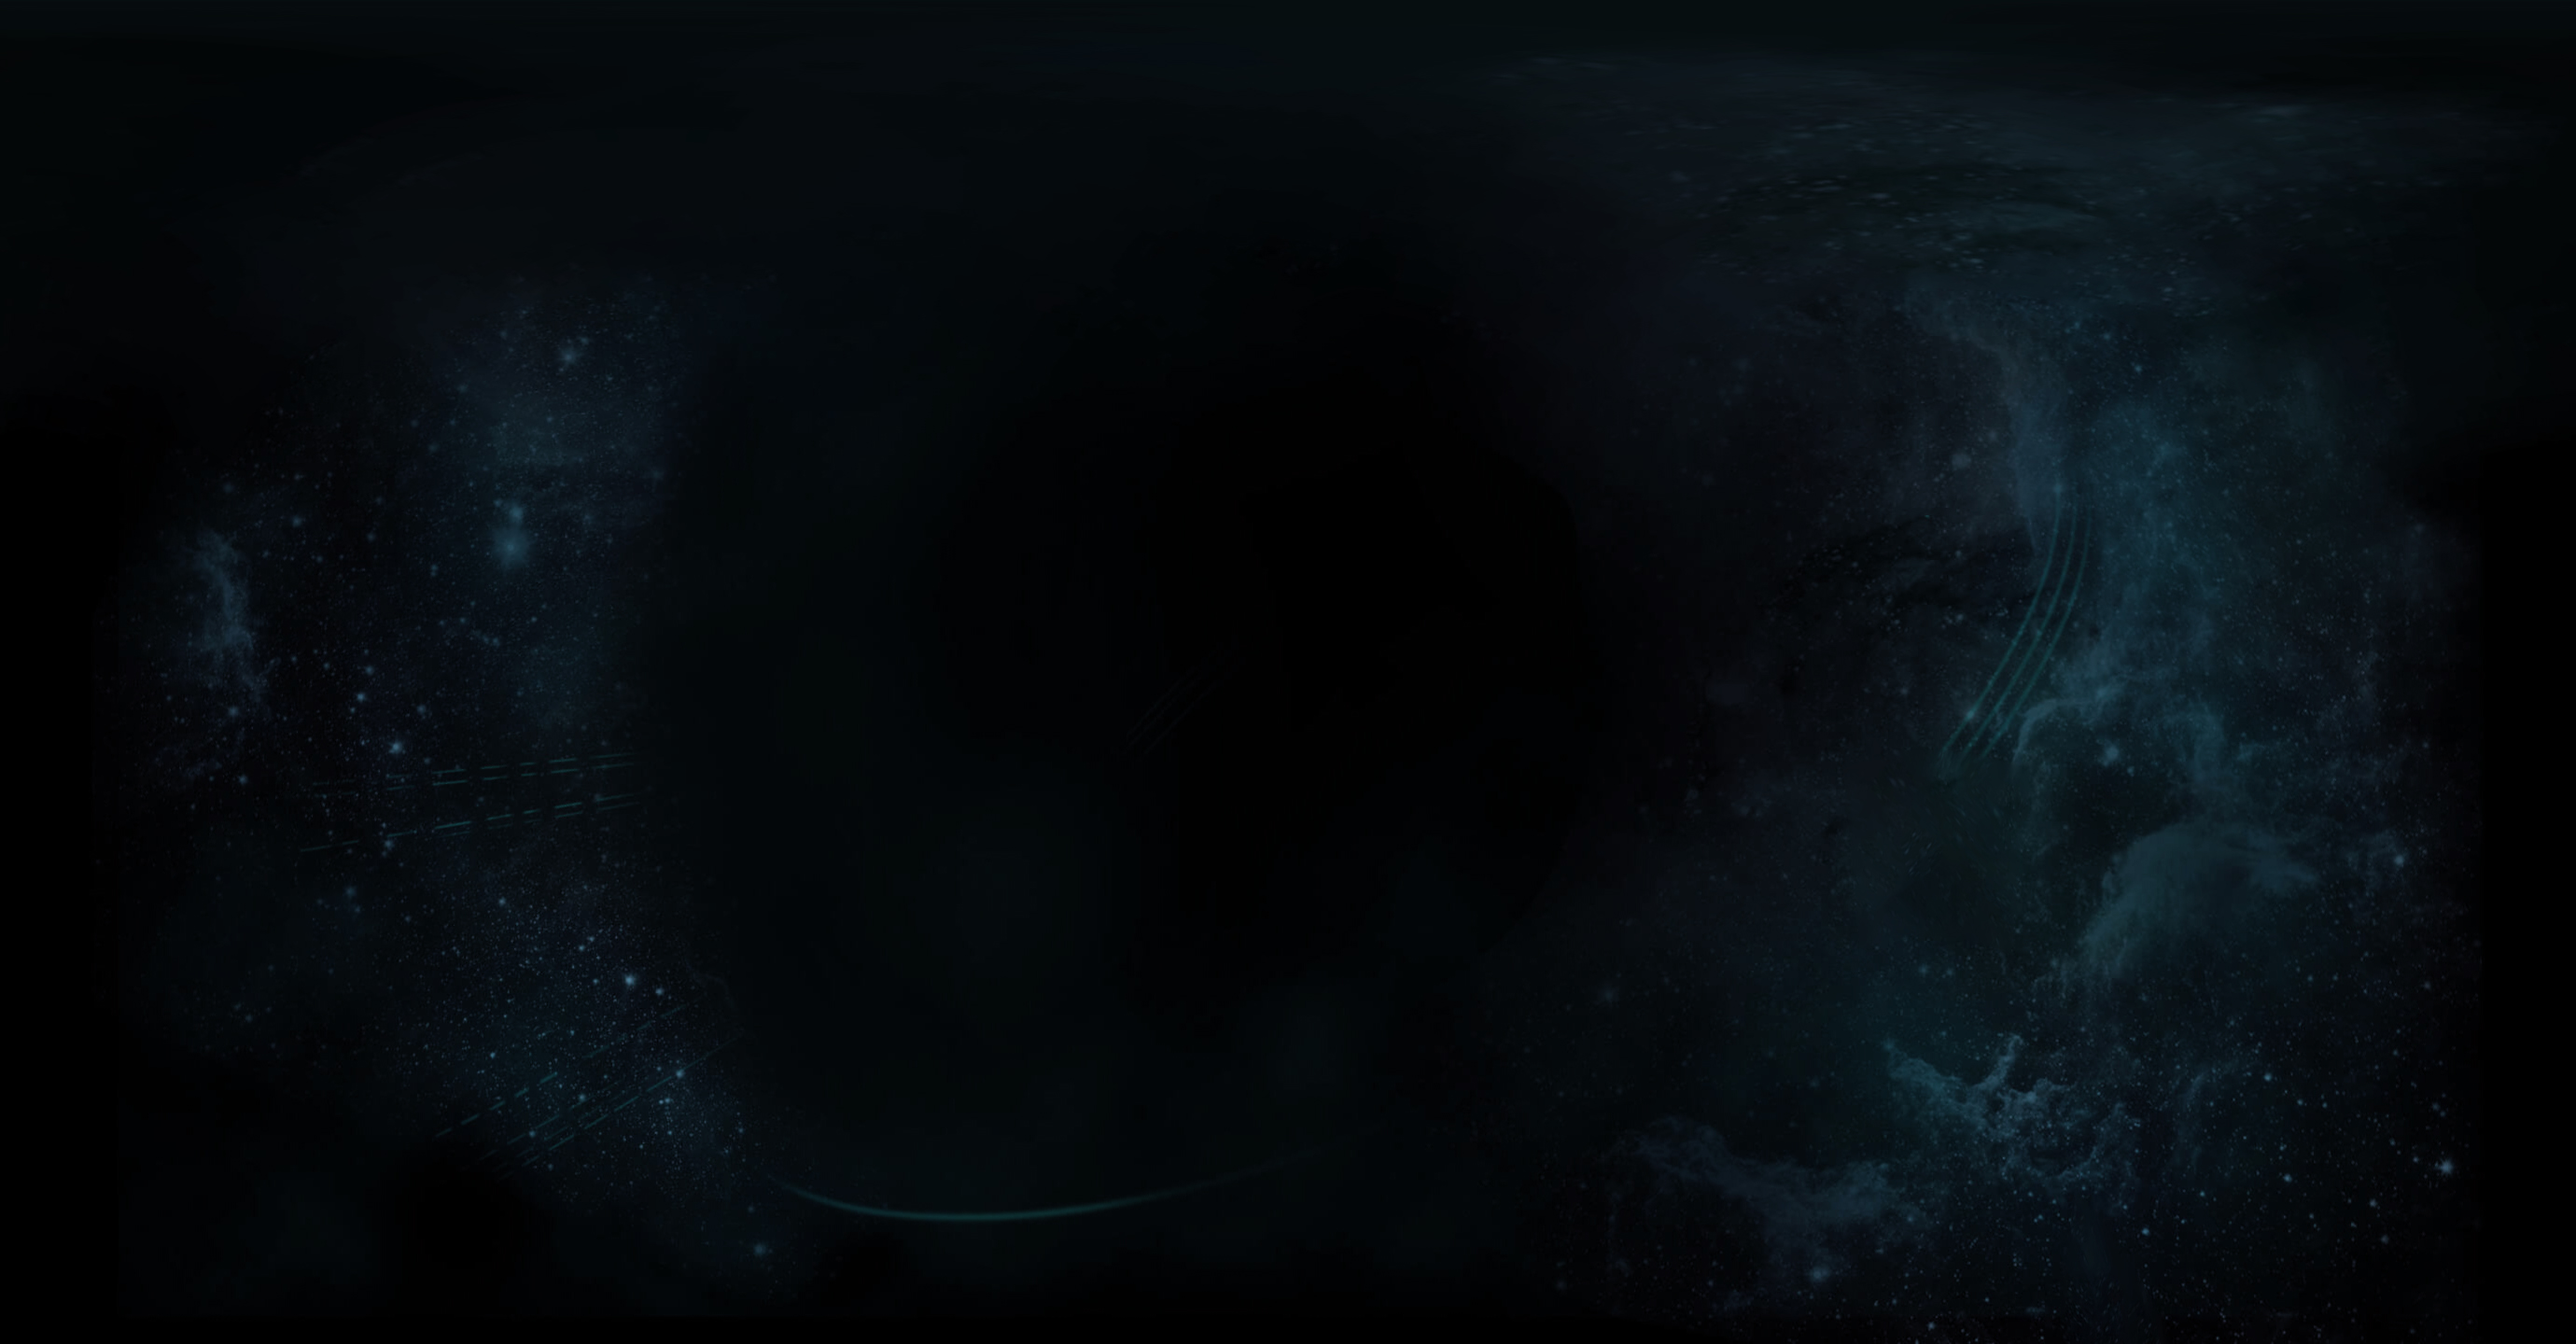
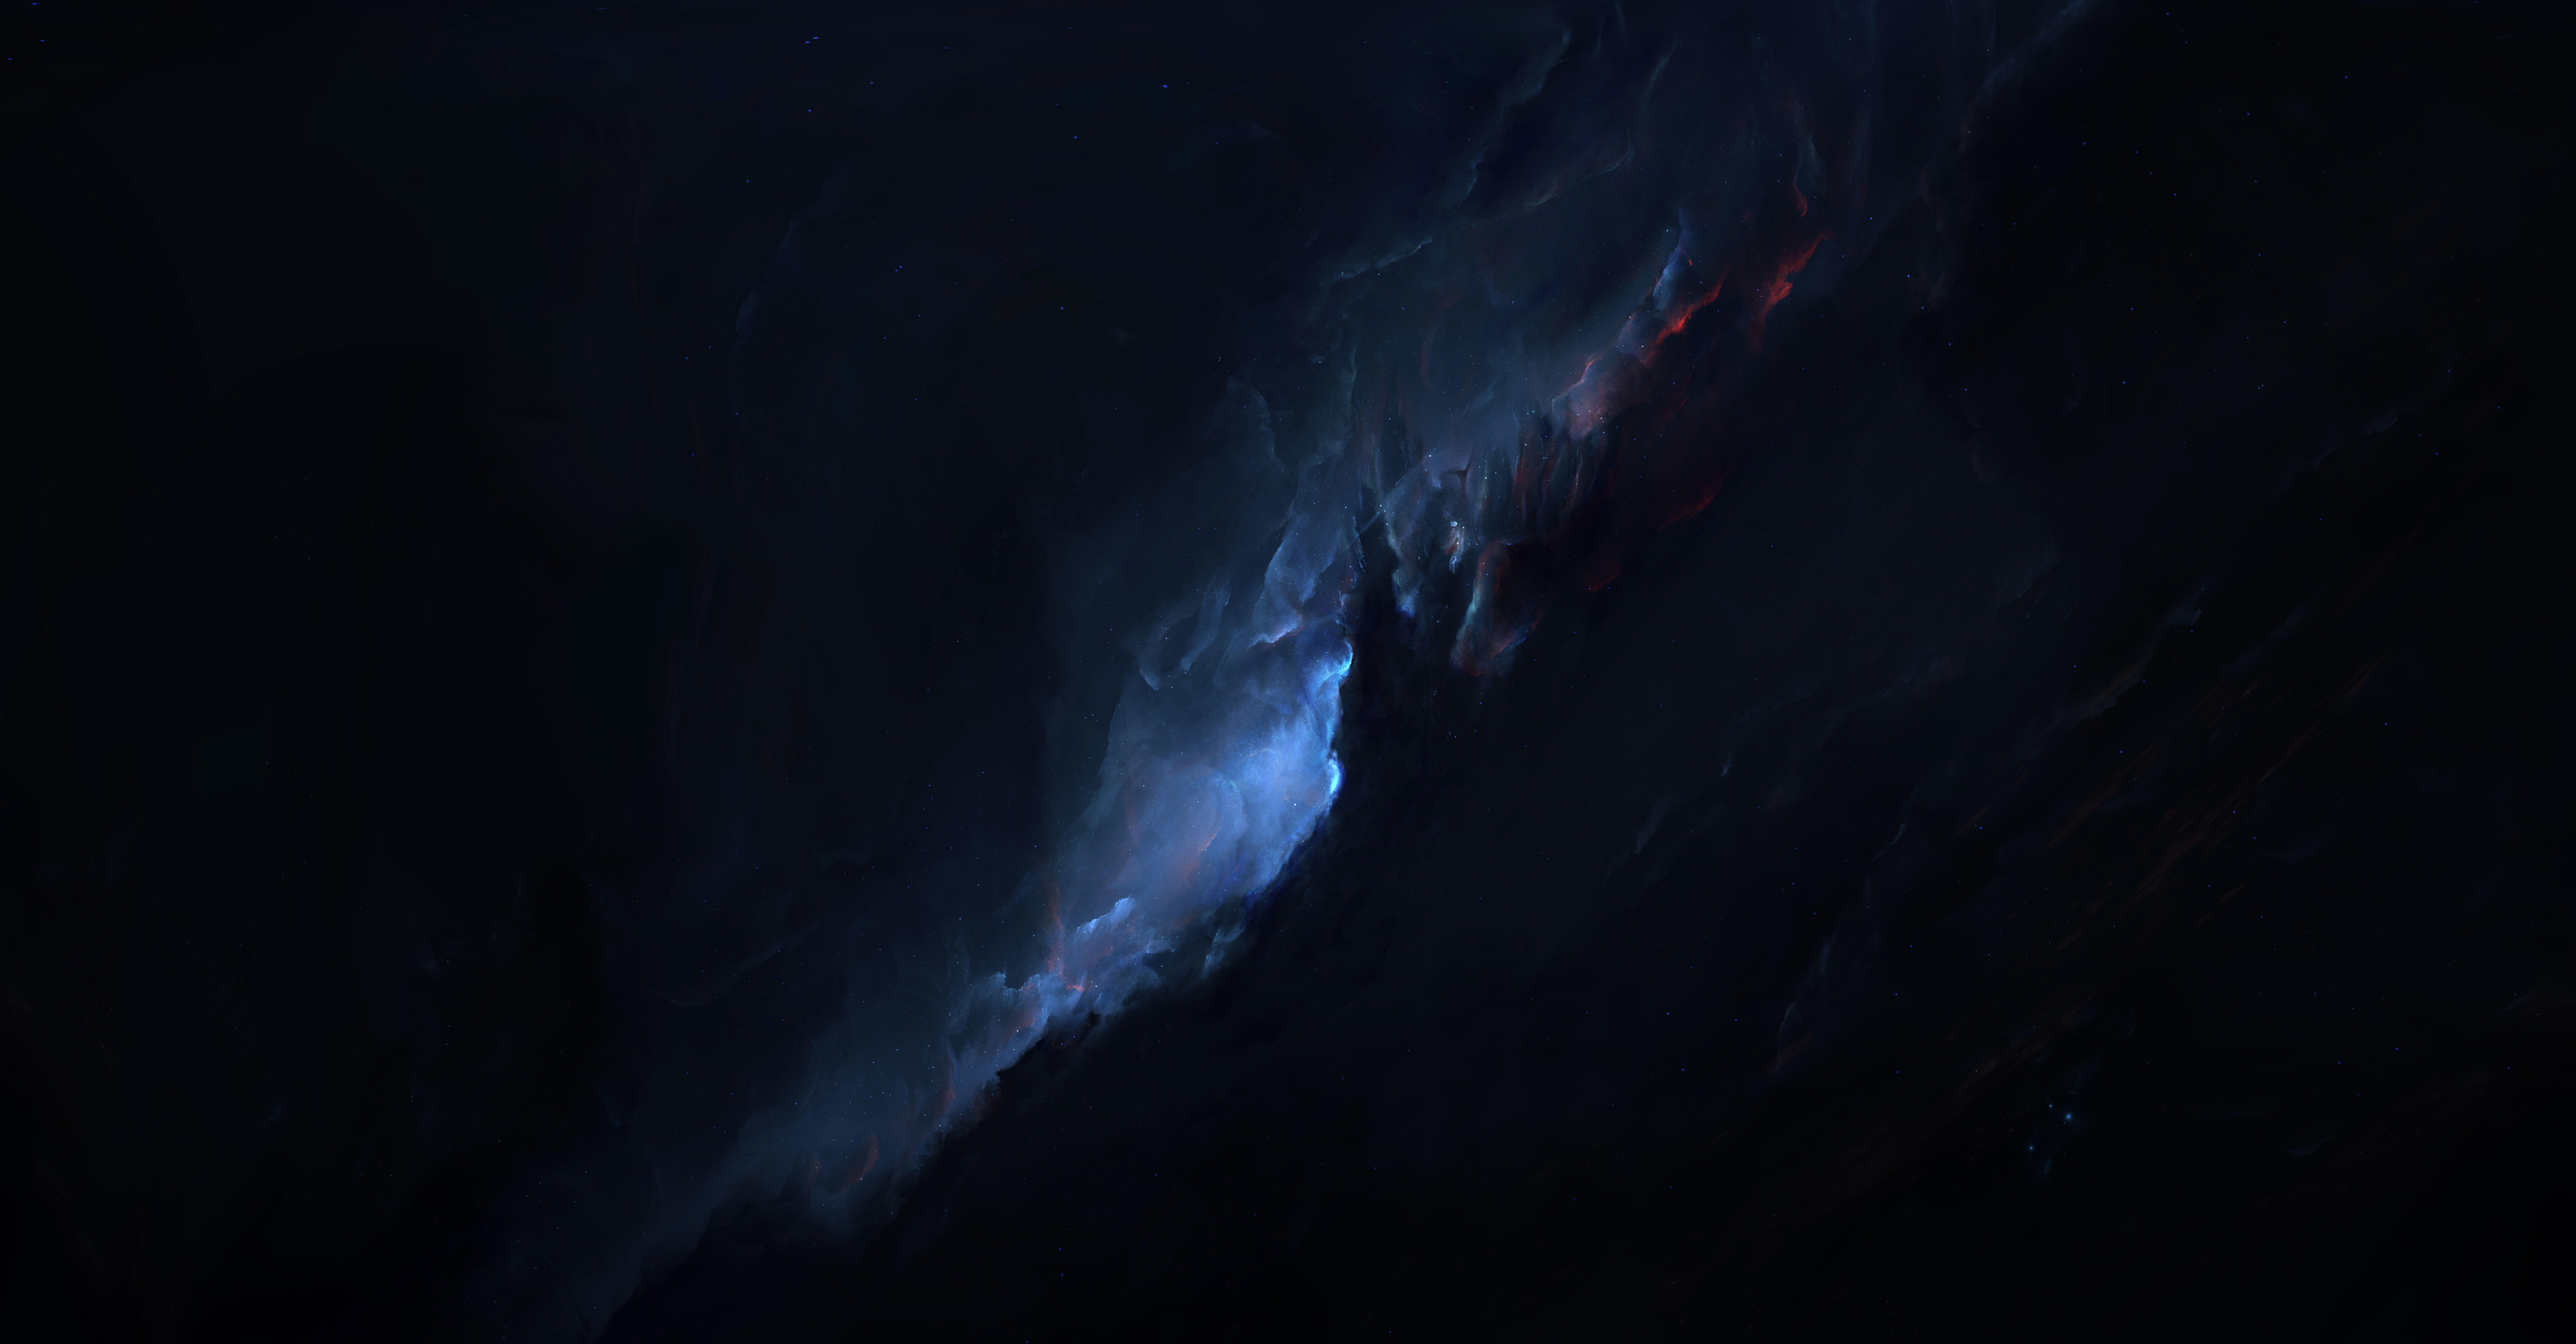
Fix background & damping of controls

diff --git a/src/layouts/Home/DisplacementSphere.js b/src/layouts/Home/DisplacementSphere.js
@@ -184,10 +184,11 @@ export const DisplacementSphere = props => {
     
     const controls = new OrbitControls(camera.current, renderer.current.domElement);
     controls.enableDamping = true;
+    controls.dampingFactor = 0.3;
     controls.enablePan = false;
     controls.minDistance = 3;
     controls.maxDistance = 7;
-    controls.rotateSpeed = 0.7;
+    controls.rotateSpeed = 0.35;
     controls.update();
 
     var geom = new THREE.SphereGeometry(1.95, 500, 500);
@@ -202,7 +203,7 @@ export const DisplacementSphere = props => {
     
     const loader = new THREE.TextureLoader();
     const texture = new TextureLoader().load("/static/earth_1.png");
-    const texture1 = new TextureLoader().load("/static/bg3.jpg");
+    const texture1 = new TextureLoader().load("/static/bg.jpg");
     
     texture1.wrapS = THREE.RepeatWrapping;
     texture1.wrapT = THREE.RepeatWrapping;
